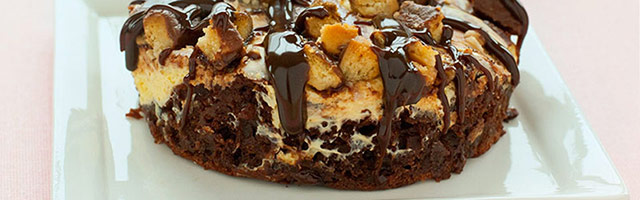
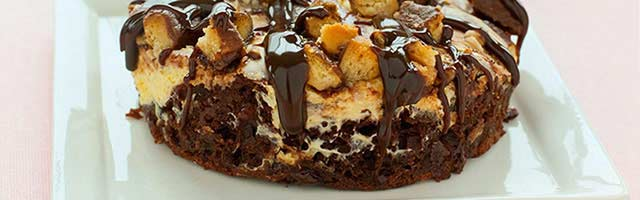
making smaller version for mobile slider. Also, removing line of text from slider, so only title.

diff --git a/newsite/index.php b/newsite/index.php
@@ -13,15 +13,12 @@ include 'header.php';
       <img src="img/?kitchen_adventurer_cheesecake_brownie.jpg" />
       <div class="slide_text">
         <div class="slide_title">Title of Slide 1</div>
-        <div class="slide_byline">Teaser text for slide 1</div>
-      </div>
       </div>
     </li>
     <li>
       <img src="img/?kitchen_adventurer_donut.jpg" />
       <div class="slide_text">
         <div class="slide_title">Title of Slide 1</div>
-        <div class="slide_byline">Teaser text for slide 1</div>
       </div>
     </li>
   </ul>
